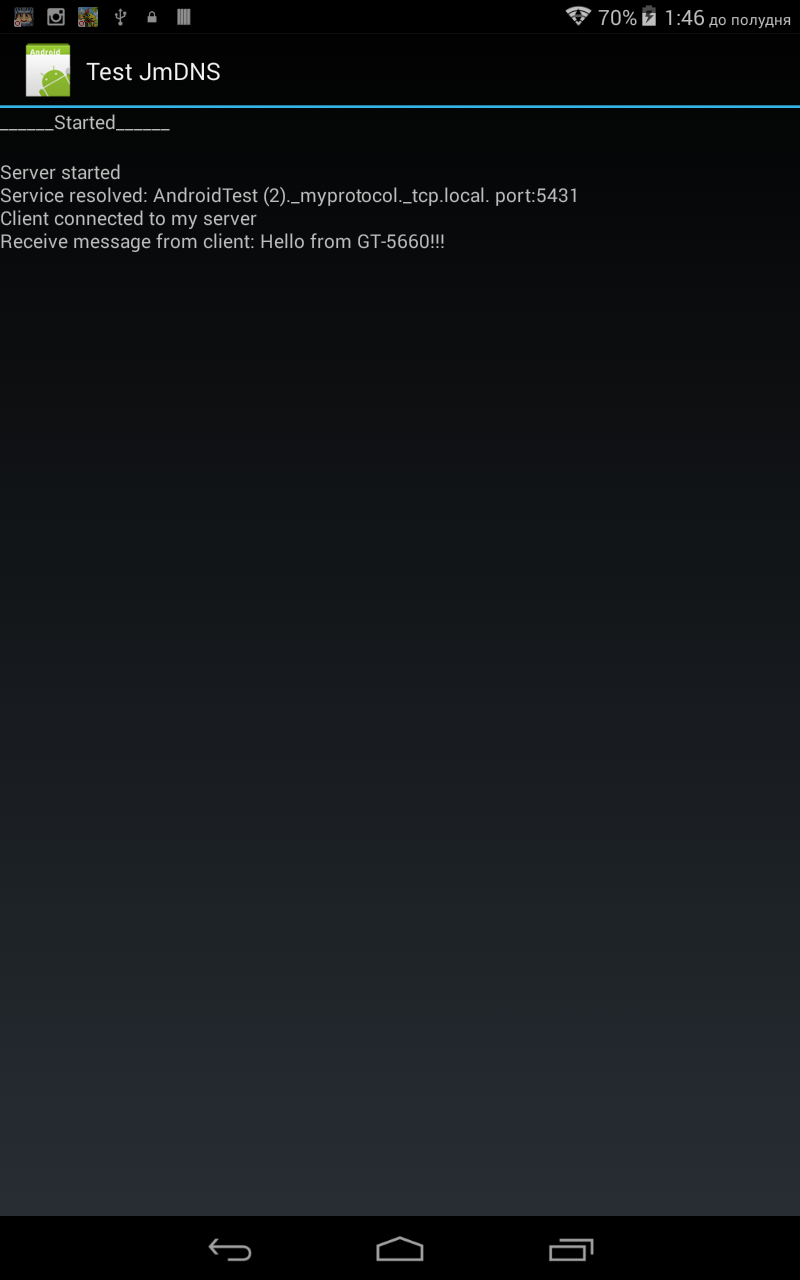
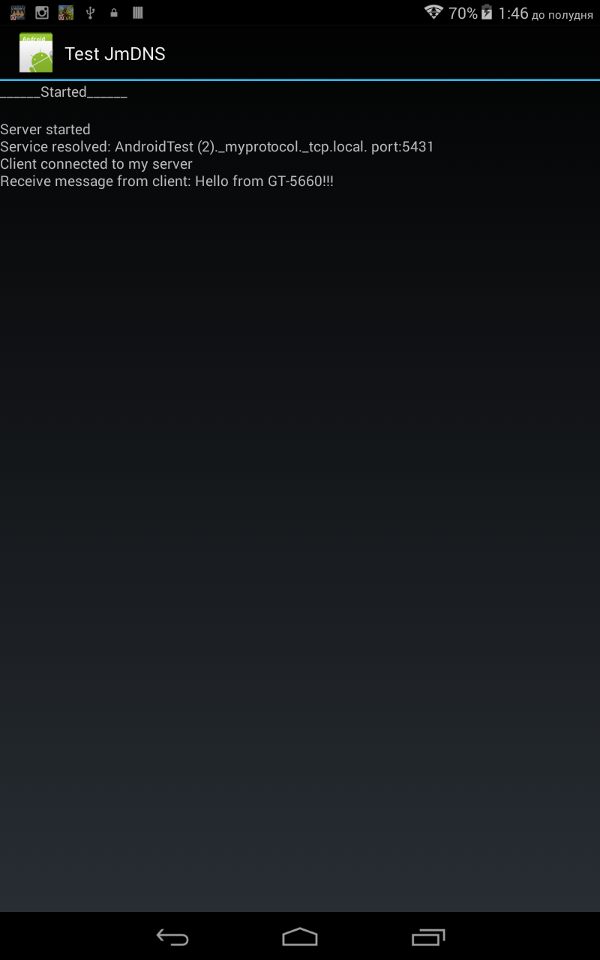
Fix images

Changed region(s): [[0.24, 0.0312, 0.27, 0.0625]]

diff --git a/README.md b/README.md
@@ -5,8 +5,8 @@
 
 Пример работы программы:
 
-Первое устройство шлет данные
+Первое устройство шлет данные   
 ![sender](/img/scr1.png?raw=true)
 
-Второе принимает
-![receiver](/img/scr1.png?raw=true)
+Второе принимает   
+![receiver](/img/scr2.png?raw=true)
